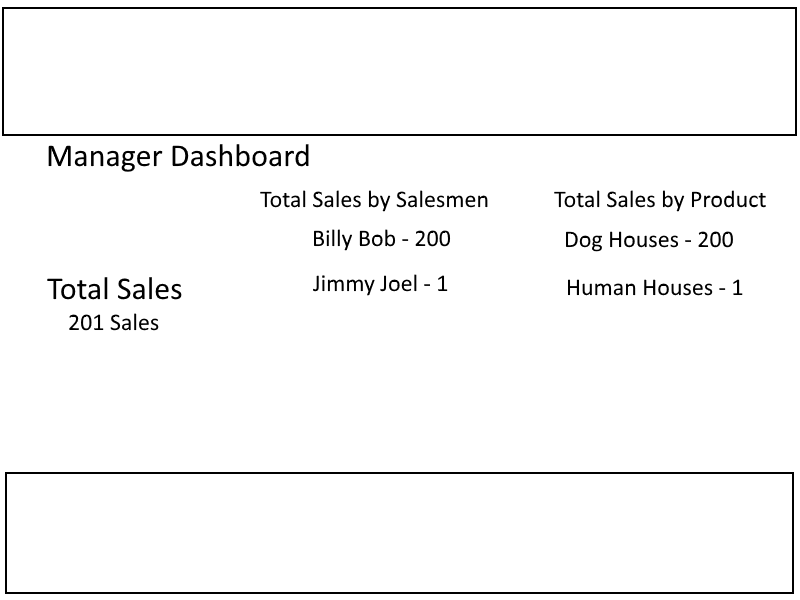
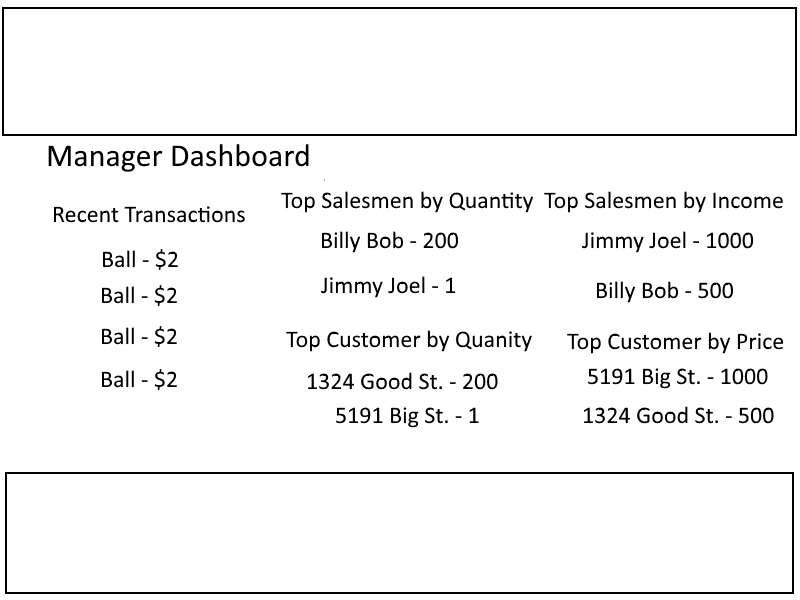
Added a few Sales_Transaction DAL methods, leaving 2 incomplete

diff --git a/DoorToDoorLibrary/DAL/DoorToDoorDAL.cs b/DoorToDoorLibrary/DAL/DoorToDoorDAL.cs
@@ -97,7 +97,7 @@ namespace DoorToDoorLibrary.DAL
                 conn.Open();
 
                 SqlCommand cmd = new SqlCommand(sql + " " + _getLastIdSql, conn);
-                cmd.Parameters.AddWithValue("@FirstName",  item.FirstName);
+                cmd.Parameters.AddWithValue("@FirstName", item.FirstName);
                 cmd.Parameters.AddWithValue("@LastName", item.LastName);
                 cmd.Parameters.AddWithValue("@EmailAddress", item.EmailAddress.ToLower());
                 cmd.Parameters.AddWithValue("@Hash", item.Hash);
@@ -108,7 +108,7 @@ namespace DoorToDoorLibrary.DAL
                 {
                     ID = (int)cmd.ExecuteScalar();
                 }
-                catch(Exception ex)
+                catch (Exception ex)
                 {
                     throw ex;
                 }
@@ -200,7 +200,7 @@ namespace DoorToDoorLibrary.DAL
                     string salespersonName = Convert.ToString(reader["firstName"]) + " " + Convert.ToString(reader["lastName"]);
                     int salespersonID = Convert.ToInt32(reader["id"]);
                     SelectListItem item = new SelectListItem(salespersonName, salespersonID.ToString());
-                    
+
                     output.Add(item);
                 }
             }
@@ -292,9 +292,9 @@ namespace DoorToDoorLibrary.DAL
 
         private bool IsMySalesperson(int salespersonID, int managerID)
         {
-            foreach(UserItem user in GetMySalespeople(managerID))
+            foreach (UserItem user in GetMySalespeople(managerID))
             {
-                if(user.Id == salespersonID)
+                if (user.Id == salespersonID)
                 {
                     return true;
                 }
@@ -411,37 +411,37 @@ namespace DoorToDoorLibrary.DAL
         #region SalesTransaction Methods
 
         /// <summary>
-        /// Generates a UserSalesCountItem from the provided Sql Data Reader
+        /// Generates a SalesmanSalesCountItem from the provided Sql Data Reader
         /// </summary>
         /// <param name="reader">The given Sql Data Reader</param>
-        /// <returns>UserSalesCountItem containing the information for a particular sale</returns>
-        private UserSalesCountItem GetSalesItemFromReader(SqlDataReader reader)
+        /// <returns>SalesmanSalesCountItem containing the information for a particular sale</returns>
+        private SalesmanSalesCountItem GetSalesCountItemFromReader(SqlDataReader reader)
         {
-            UserSalesCountItem item = new UserSalesCountItem();
+            SalesmanSalesCountItem item = new SalesmanSalesCountItem();
 
             item.FirstName = Convert.ToString(reader["firstName"]);
             item.LastName = Convert.ToString(reader["lastName"]);
             item.SalesCount = Convert.ToInt32(reader["numSales"]);
-            
+
 
             return item;
         }
 
 
         /// <summary>
-        /// Generates the data of salesman transactions, relevant to the specific Manager.
+        /// Generates the top salesman based on amount of sales for current manager.
         /// </summary>
         /// <param name="managerID"></param>
-        /// <returns>A list of the names and totals sales of those under the manager</returns>
-        public IList<UserSalesCountItem> GetSalesmanTransactionData(int managerID)
+        /// <returns>A list of SalesmanCountItem</returns>
+        public IList<SalesmanSalesCountItem> GetTopSalesmenByQuantity(int managerID)
         {
-            var output = new List<UserSalesCountItem>();
+            var output = new List<SalesmanSalesCountItem>();
 
             using (SqlConnection conn = new SqlConnection(_connectionString))
             {
                 conn.Open();
 
-                string sql = "SELECT u.firstName, u.lastName, COUNT(st.ID) AS numSales " +
+                string sql = "SELECT TOP 5 u.firstName, u.lastName, COUNT(st.ID) AS numSales " +
                     "FROM Users AS u JOIN Sales_Transactions AS st ON u.id = st.salespersonID WHERE u.id " +
                     "IN(SELECT ms.salespersonID FROM Manager_Saleperson AS ms WHERE ms.managerID = @ManagerID) " +
                     "GROUP BY u.firstName, u.lastName ORDER BY numSales DESC; ";
@@ -453,13 +453,74 @@ namespace DoorToDoorLibrary.DAL
 
                 while (reader.Read())
                 {
-                    UserSalesCountItem sale = GetSalesItemFromReader(reader);
+                    SalesmanSalesCountItem sale = GetSalesCountItemFromReader(reader);
                     output.Add(sale);
                 }
             }
             return output;
         }
 
+        /// <summary>
+        /// Generates a SalesmanRevenueItem from the provided Sql Data Reader
+        /// </summary>
+        /// <param name="reader">The given Sql Data Reader</param>
+        /// <returns>SalesmanRevenueItem containing the information for a particular sale</returns>
+        private SalesmanRevenueItem GetSalesRevenueItemFromReader(SqlDataReader reader)
+        {
+            SalesmanRevenueItem item = new SalesmanRevenueItem();
+
+            item.FirstName = Convert.ToString(reader["firstName"]);
+            item.LastName = Convert.ToString(reader["lastName"]);
+            item.TotalRevenue = Convert.ToInt32(reader["numTotal"]);
+
+
+            return item;
+        }
+
+        /// <summary>
+        /// Generates the top salesman based on total revenue of sales for current manager.
+        /// </summary>
+        /// <param name="managerID"></param>
+        /// <returns>A list of SalesRevenueItem</returns>
+        public IList<SalesmanRevenueItem> GetTopSalesmenByRevenue(int managerID)
+        {
+            var output = new List<SalesmanRevenueItem>();
+
+            using (SqlConnection conn = new SqlConnection(_connectionString))
+            {
+                conn.Open();
+
+                string sql = "SELECT TOP 5 u.firstName, u.lastName, SUM(st.amount) AS numTotal " +
+                    "FROM Users AS u JOIN Sales_Transactions AS st ON u.id = st.salespersonID WHERE u.id " +
+                    "IN(SELECT ms.salespersonID FROM Manager_Saleperson AS ms WHERE ms.managerID = @ManagerID) " +
+                    "GROUP BY u.firstName, u.lastName ORDER BY numTotal DESC; ";
+
+                SqlCommand cmd = new SqlCommand(sql, conn);
+                cmd.Parameters.AddWithValue("@ManagerID", managerID);
+
+                SqlDataReader reader = cmd.ExecuteReader();
+
+                while (reader.Read())
+                {
+                    SalesmanRevenueItem sale = GetSalesRevenueItemFromReader(reader);
+                    output.Add(sale);
+                }
+            }
+
+            return output;
+        }
+
+        public IList<HouseSalesCountItem> GetTopHouseByQuantity(int managerID)
+        {
+            var output = new List<HouseSalesCountItem>();
+            return output;
+        }
+
+        public IList<HouseRevenueItem> GetTopHouseByRevenue(int managerID)
+        {
+            var output = new List<HouseRevenueItem>();
+            return output;
+        }
         /// <summary>
         /// Gets the total number of transactions that have taken place under this manager.
         /// </summary>
@@ -485,6 +546,18 @@ namespace DoorToDoorLibrary.DAL
             }
 
                 return output;
+        }
+
+        /// <summary>
+        /// Gets the total amount of revenue generated under this manager.
+        /// </summary>
+        /// <param name="managerID"></param>
+        /// <returns>The total revenue from manager as an Int</returns>
+        public int GetTotalRevenue(int managerID)
+        {
+            int output = 0;
+
+            return output;
         }
 
         #endregion

diff --git a/DoorToDoorLibrary/DAL/IDoorToDoorDAL.cs b/DoorToDoorLibrary/DAL/IDoorToDoorDAL.cs
@@ -88,11 +88,22 @@ namespace DoorToDoorLibrary.DAL
         #region SalesTransaction Methods
 
         /// <summary>
-        /// Generates the data of salesman transactions, relevant to the specific Manager.
+        /// Generates the top salesman based on amount of sales for current manager.
         /// </summary>
         /// <param name="managerID"></param>
-        /// <returns>A list of Sales Transactions from salesmen belonging to the passed in Manager ID</returns>
-        IList<UserSalesCountItem> GetSalesmanTransactionData(int managerID);
+        /// <returns>A list of SalesmanCountItem</returns>
+        IList<SalesmanSalesCountItem> GetTopSalesmenByQuantity(int managerID);
+
+        /// <summary>
+        /// Generates the top salesman based on total revenue of sales for current manager.
+        /// </summary>
+        /// <param name="managerID"></param>
+        /// <returns>A list of SalesRevenueItem</returns>
+        IList<SalesmanRevenueItem> GetTopSalesmenByRevenue(int managerID);
+
+        IList<HouseSalesCountItem> GetTopHouseByQuantity(int managerID);
+
+        IList<HouseRevenueItem> GetTopHouseByRevenue(int managerID);
 
         /// <summary>
         /// Gets the total number of transactions that have taken place under this manager.
@@ -100,6 +111,13 @@ namespace DoorToDoorLibrary.DAL
         /// <param name="managerID"></param>
         /// <returns>The total number of transactions from a manager's salesmen as an Int</returns>
         int GetTotalSales(int managerID);
+
+        /// <summary>
+        /// Gets the total amount of revenue generated under this manager.
+        /// </summary>
+        /// <param name="managerID"></param>
+        /// <returns>The total revenue from manager as an Int</returns>
+        int GetTotalRevenue(int managerID);
 
         #endregion
     }

diff --git a/DoorToDoorWeb/Controllers/ManagerController.cs b/DoorToDoorWeb/Controllers/ManagerController.cs
@@ -32,8 +32,12 @@ namespace DoorToDoorWeb.Controllers
         private ManagerDashboardViewModel CreateManagerDashboardViewModel()
         {
             ManagerDashboardViewModel dashboard = new ManagerDashboardViewModel();
-            dashboard.Transactions = _db.GetSalesmanTransactionData(CurrentUser.Id);
+            dashboard.SalesmanRankByQuantity = _db.GetTopSalesmenByQuantity(CurrentUser.Id);
+            dashboard.SalesmanRankByRevenue = _db.GetTopSalesmenByRevenue(CurrentUser.Id);
+            dashboard.HouseRankByQuantity = _db.GetTopHouseByQuantity(CurrentUser.Id);
+            dashboard.HouseRankByRevenue = _db.GetTopHouseByRevenue(CurrentUser.Id);
             dashboard.TotalSales = _db.GetTotalSales(CurrentUser.Id);
+            dashboard.TotalRevenue = _db.GetTotalRevenue(CurrentUser.Id);
 
             return dashboard;
         }

diff --git a/DoorToDoorWeb/Models/ManagerDashboardViewModel.cs b/DoorToDoorWeb/Models/ManagerDashboardViewModel.cs
@@ -8,8 +8,11 @@ namespace DoorToDoorWeb.Models
 {
     public class ManagerDashboardViewModel
     {
-        public IList<UserSalesCountItem> Transactions { get; set; }
+        public IList<SalesmanSalesCountItem> SalesmanRankByQuantity { get; set; }
+        public IList<SalesmanRevenueItem> SalesmanRankByRevenue { get; set; }
+        public IList<HouseSalesCountItem> HouseRankByQuantity { get; set; }
+        public IList<HouseRevenueItem> HouseRankByRevenue { get; set; }
         public int TotalSales { get; set; }
-        public decimal TotalIncome { get; set; }
+        public decimal TotalRevenue { get; set; }
     }
 }

diff --git a/DoorToDoorLibrary/DatabaseObjects/SalesmanRevenueItem.cs b/DoorToDoorLibrary/DatabaseObjects/SalesmanRevenueItem.cs
@@ -4,10 +4,10 @@ using System.Text;
 
 namespace DoorToDoorLibrary.DatabaseObjects
 {
-    public class UserSalesCountItem : BaseItem
+    public class SalesmanRevenueItem : BaseItem
     {
         public string FirstName { get; set; }
         public string LastName { get; set; }
-        public int SalesCount { get; set; }
+        public decimal TotalRevenue { get; set; }
     }
 }

diff --git a/DoorToDoorLibrary/DatabaseObjects/SalesmanSalesCountItem.cs b/DoorToDoorLibrary/DatabaseObjects/SalesmanSalesCountItem.cs
@@ -1,0 +1,13 @@
+using System;
+using System.Collections.Generic;
+using System.Text;
+
+namespace DoorToDoorLibrary.DatabaseObjects
+{
+    public class SalesmanSalesCountItem : BaseItem
+    {
+        public string FirstName { get; set; }
+        public string LastName { get; set; }
+        public int SalesCount { get; set; }
+    }
+}

diff --git a/DoorToDoorLibrary/DatabaseObjects/HouseSalesCountItem.cs b/DoorToDoorLibrary/DatabaseObjects/HouseSalesCountItem.cs
@@ -1,0 +1,11 @@
+using System;
+using System.Collections.Generic;
+using System.Text;
+
+namespace DoorToDoorLibrary.DatabaseObjects
+{
+    public class HouseSalesCountItem : BaseItem
+    {
+
+    }
+}

diff --git a/DoorToDoorLibrary/DatabaseObjects/HouseRevenueItem.cs b/DoorToDoorLibrary/DatabaseObjects/HouseRevenueItem.cs
@@ -1,0 +1,11 @@
+using System;
+using System.Collections.Generic;
+using System.Text;
+
+namespace DoorToDoorLibrary.DatabaseObjects
+{
+    public class HouseRevenueItem : BaseItem
+    {
+
+    }
+}
